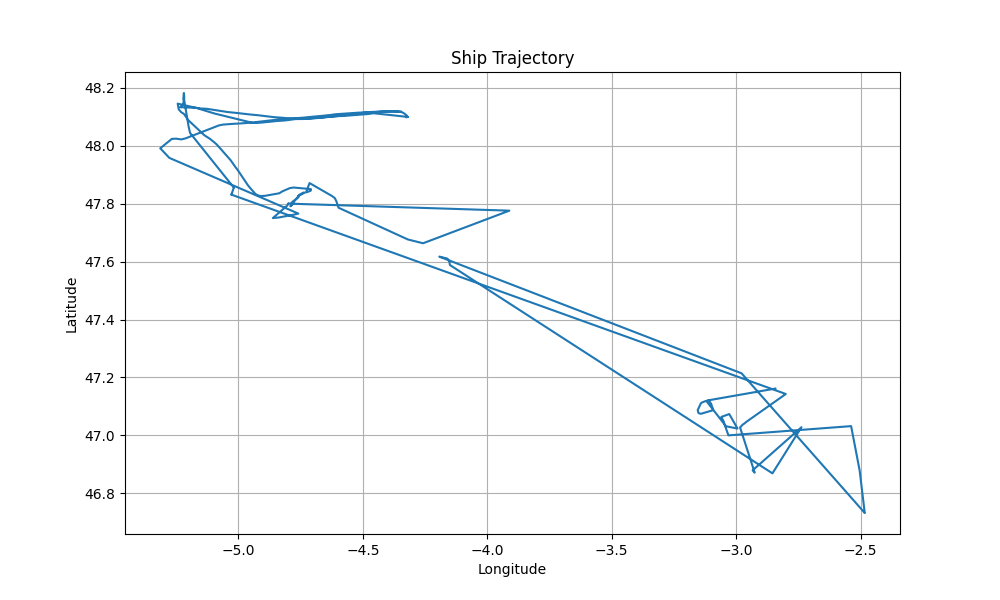
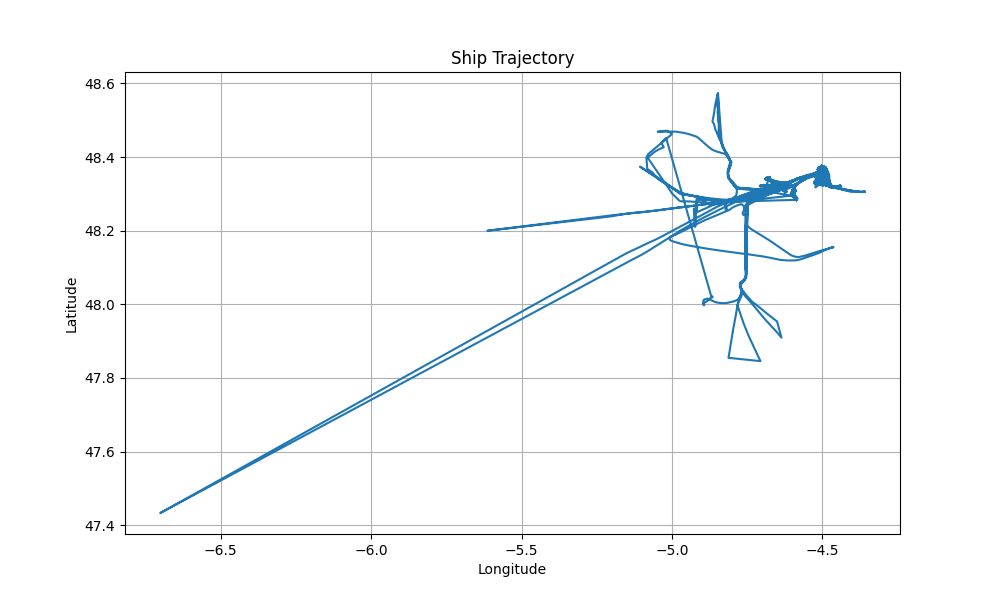
Add files via upload

diff --git a/recursive_rollout_prediction.py b/recursive_rollout_prediction.py
@@ -1,0 +1,203 @@
+import numpy as np
+import torch
+import torch.nn as nn
+import matplotlib.pyplot as plt
+
+# ============================================
+# PARAMETERS
+# ============================================
+
+past_steps = 300
+future_steps = 300
+
+# ============================================
+# LOAD DATA
+# ============================================
+
+X = np.load("X.npy")
+y = np.load("y.npy")
+
+# ============================================
+# DEFINE MODEL
+# ============================================
+
+class TrajectoryLSTM(nn.Module):
+
+    def __init__(self):
+
+        super().__init__()
+
+        self.lstm = nn.LSTM(
+            input_size=7,
+            hidden_size=64,
+            num_layers=2,
+            batch_first=True
+        )
+
+        self.fc = nn.Linear(
+            64,
+            future_steps * 2
+        )
+
+    def forward(self, x):
+
+        out, _ = self.lstm(x)
+
+        out = out[:, -1, :]
+
+        out = self.fc(out)
+
+        out = out.view(
+            -1,
+            future_steps,
+            2
+        )
+
+        return out
+
+# ============================================
+# LOAD MODEL
+# ============================================
+
+model = TrajectoryLSTM()
+
+model.load_state_dict(
+    torch.load("trajectory_model.pth")
+)
+
+model.eval()
+
+print("Model Loaded Successfully!")
+
+# ============================================
+# SELECT SAMPLE
+# ============================================
+
+sample_index = 10
+
+current_sequence = X[
+    sample_index
+].copy()
+
+# ============================================
+# ACTUAL FUTURE
+# ============================================
+
+actual_5min = y[sample_index]
+
+# next future block
+actual_next_5min = y[
+    sample_index + 1
+]
+
+actual_total = np.concatenate(
+    [
+        actual_5min,
+        actual_next_5min
+    ],
+    axis=0
+)
+
+# ============================================
+# RECURSIVE ROLLOUT
+# ============================================
+
+all_predictions = []
+
+for rollout_step in range(2):
+
+    input_tensor = torch.tensor(
+        current_sequence,
+        dtype=torch.float32
+    ).unsqueeze(0)
+
+    with torch.no_grad():
+
+        prediction = model(
+            input_tensor
+        )
+
+    prediction = prediction.numpy()[0]
+
+    all_predictions.append(
+        prediction
+    )
+
+    # ========================================
+    # CREATE NEXT INPUT SEQUENCE
+    # ========================================
+
+    predicted_features = np.zeros(
+        (future_steps, 7)
+    )
+
+    # lat lon
+    predicted_features[:,0:2] = prediction
+
+    # reuse previous motion values
+    predicted_features[:,2:] = current_sequence[
+        -future_steps:,
+        2:
+    ]
+
+    # update rolling window
+    current_sequence = predicted_features
+
+# ============================================
+# COMBINE PREDICTIONS
+# ============================================
+
+all_predictions = np.concatenate(
+    all_predictions,
+    axis=0
+)
+
+# ============================================
+# PLOT RESULTS
+# ============================================
+
+plt.figure(figsize=(12,7))
+
+# Actual trajectory
+plt.plot(
+    actual_total[:,1],
+    actual_total[:,0],
+    linewidth=2,
+    label='Actual Future Path'
+)
+
+# Predicted trajectory
+plt.plot(
+    all_predictions[:,1],
+    all_predictions[:,0],
+    linewidth=2,
+    label='Predicted 10-min Path'
+)
+
+# Sensor denial start
+plt.scatter(
+    actual_total[0,1],
+    actual_total[0,0],
+    color='red',
+    s=100,
+    label='Sensor Denial Start'
+)
+
+plt.xlabel("Longitude")
+plt.ylabel("Latitude")
+
+plt.title(
+    "Recursive 10-Minute Maritime Trajectory Prediction"
+)
+
+plt.legend()
+
+plt.grid(True)
+
+plt.savefig(
+    "recursive_rollout_result.png"
+)
+
+plt.show()
+
+print("\nRecursive Rollout Prediction Complete!")

diff --git a/filter_continuous_ship.py b/filter_continuous_ship.py
@@ -1,0 +1,76 @@
+import pandas as pd
+
+# ====================================
+# LOAD DATA
+# ====================================
+
+df = pd.read_csv(
+    "ship_trajectory_data.csv"
+)
+
+# ====================================
+# CONVERT TIMESTAMP
+# ====================================
+
+df['timestamp'] = pd.to_datetime(
+    df['timestamp'],
+    unit='s'
+)
+
+# ====================================
+# SELECT ONE SHIP
+# ====================================
+
+ship_id = df['mmsi'].value_counts().idxmax()
+
+print("Selected Ship:", ship_id)
+
+df = df[
+    df['mmsi'] == ship_id
+]
+
+# ====================================
+# SORT BY TIME
+# ====================================
+
+df = df.sort_values(
+    by='timestamp'
+)
+
+# ====================================
+# CALCULATE TIME DIFFERENCE
+# ====================================
+
+df['time_diff'] = df[
+    'timestamp'
+].diff().dt.total_seconds()
+
+# ====================================
+# KEEP ONLY SMALL GAPS
+# ====================================
+
+df = df[
+    (df['time_diff'] <= 60)
+    | (df['time_diff'].isna())
+]
+
+# ====================================
+# RESET INDEX
+# ====================================
+
+df = df.reset_index(drop=True)
+
+# ====================================
+# SAVE CLEAN TRACK
+# ====================================
+
+df.to_csv(
+    "continuous_ship_trajectory.csv",
+    index=False
+)
+
+print("\nContinuous trajectory saved!")
+
+print(df.head())
+
+print("\nTotal Points:", len(df))

diff --git a/check_time_interval.py b/check_time_interval.py
@@ -1,0 +1,19 @@
+import pandas as pd
+
+df = pd.read_csv(
+    "ship_trajectory_data.csv"
+)
+
+# convert timestamp
+df['timestamp'] = pd.to_datetime(
+    df['timestamp'],
+    unit='s'
+)
+
+# sort
+df = df.sort_values(by='timestamp')
+
+# calculate differences
+time_diff = df['timestamp'].diff()
+
+print(time_diff.describe())

diff --git a/sensor_denial_cond.py b/sensor_denial_cond.py
@@ -15,8 +15,8 @@ y = np.load("y.npy")
 # DEFINE PARAMETERS
 # ============================================
 
-past_steps = 200
-future_steps = 100
+past_steps = 300
+future_steps = 300
 
 # ============================================
 # DEFINE MODEL
@@ -35,8 +35,8 @@ class TrajectoryLSTM(nn.Module):
             batch_first=True
         )
 
-        # 100 future steps × 2 outputs
-        self.fc = nn.Linear(64, 200)
+        # 300 future steps × 2 outputs
+        self.fc = nn.Linear(64, 600)
 
     def forward(self, x):
 

diff --git a/create_sequences.py b/create_sequences.py
@@ -27,8 +27,8 @@ print(scaled_data.shape)
 # CREATE SEQUENCES
 # =========================
 
-past_steps = 200
-future_steps = 100
+past_steps = 300
+future_steps = 300
 
 X = []
 y = []

diff --git a/predict_trajectory.py b/predict_trajectory.py
@@ -36,7 +36,7 @@ class TrajectoryLSTM(nn.Module):
             batch_first=True
         )
 
-        self.fc = nn.Linear(64, 200)
+        self.fc = nn.Linear(64, 600)
 
     def forward(self, x):
 
@@ -46,7 +46,7 @@ class TrajectoryLSTM(nn.Module):
 
         out = self.fc(out)
 
-        out = out.view(-1, 100, 2)
+        out = out.view(-1, 300, 2)
 
         return out
 

diff --git a/train_lstm.py b/train_lstm.py
@@ -84,7 +84,7 @@ class TrajectoryLSTM(nn.Module):
             batch_first=True
         )
 
-        self.fc = nn.Linear(64, 200)
+        self.fc = nn.Linear(64, 600)
 
     def forward(self, x):
 
@@ -94,7 +94,7 @@ class TrajectoryLSTM(nn.Module):
 
         out = self.fc(out)
 
-        out = out.view(-1, 100, 2)
+        out = out.view(-1, 300, 2)
 
         return out
 

diff --git a/plot_trajectory.py b/plot_trajectory.py
@@ -6,7 +6,7 @@ import matplotlib.pyplot as plt
 # ====================================
 
 df = pd.read_csv(
-    "ship_trajectory_data.csv"
+    "continuous_ship_trajectory.csv"
 )
 
 # ====================================